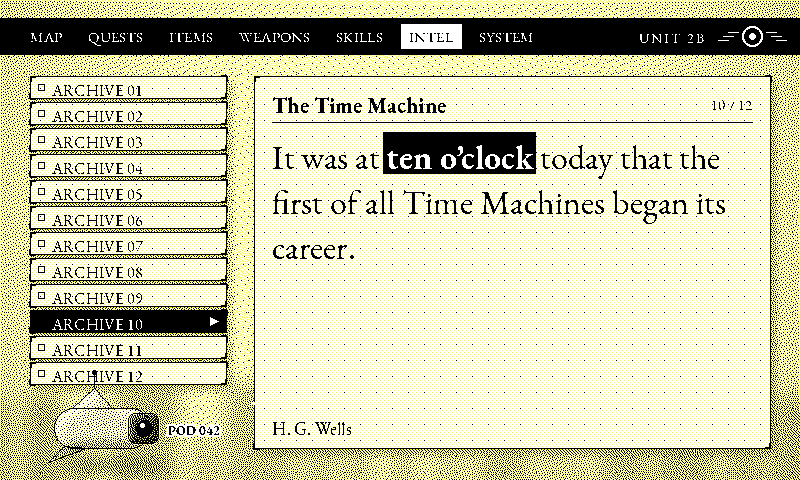
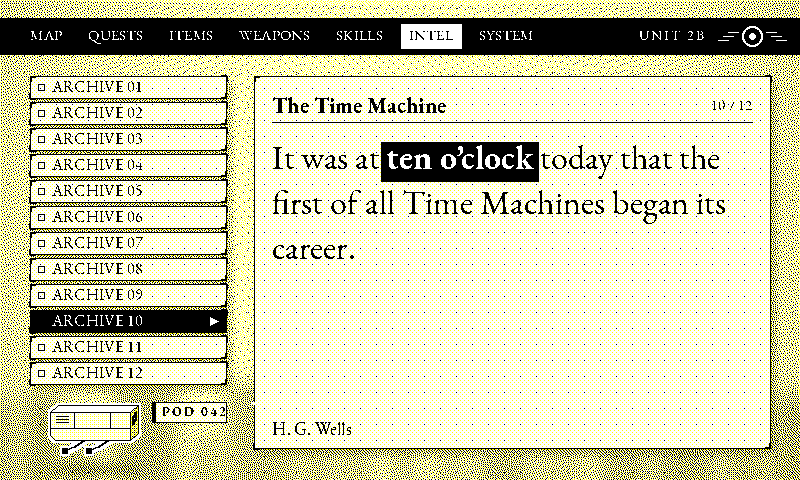
yorha: centre row labels, tighten the phrase bar, redraw Pod 042 crisp (#390)
- Menu rows, tabs, the unit legend and the sleep dialog's options set on a
  baseline that centres the cap height in the cell (_yorha_cap_baseline);
  EB Garamond's accent room above the caps made top-anchored labels sit low.
- The matched-phrase bar is trimmed to the Bold face's ascender top and
  descender foot with an even margin (_yorha_phrase_boxes) instead of the
  line-height box, which ran a third too tall and let descenders touch.
- Pod 042 is now a crisp, Bayer-stippled box-bodied unit with folded arms,
  a white keyline off the sheet and a tagged legend, replacing the dithered
  capsule whose antenna poked into the twelfth menu row.

Claude-Session: https://claude.ai/code/session_01EgsgkaojCS6X3aCn8QJEbo

diff --git a/idle_hours/render_quote/themes/yorha.py b/idle_hours/render_quote/themes/yorha.py
@@ -13,8 +13,17 @@ from PIL import Image, ImageDraw, ImageFilter
 from .._paths import EBGARAMOND_BOLD, EBGARAMOND_REGULAR, META_FONT_BOLD_CANDIDATES, META_FONT_CANDIDATES
 from ..fonts import load_font
 from ..furniture import _clock_hour12, _paint_placed, _place_quote, _row_digest, fallback_title
-from ..palette import _PANEL_INKS, SPECTRA6, SPECTRA6_PALETTE, BAYER_4x4, _dither_calibrated, pixel_access, snap_image_to_palette
-from ..primitives import _shade_silhouette, _shift_no_wrap
+from ..palette import (
+    _PANEL_INKS,
+    SPECTRA6,
+    SPECTRA6_PALETTE,
+    BAYER_4x4,
+    _dither_calibrated,
+    gray_pixel_access,
+    pixel_access,
+    snap_image_to_palette,
+)
+from ..primitives import _shift_no_wrap
 from ..spec import FrameSpec
 from ..text import draw_tracked, fit_text_to_width
 from ._shared import _lumon_hover_boxes
@@ -28,10 +37,10 @@ from ._shared import _lumon_hover_boxes
 # (``yorha``).
 #
 # The sheet (vignette, blurred city silhouettes, diagonal hatch, the panels'
-# soft shadows) and the Pod (``_shade_silhouette`` under the upper-left light) are
-# painted in continuous tone and Floyd–Steinberg dithered to white, yellow and
-# black (``_dither_calibrated``). Panel faces, hairlines, corner ticks, dot
-# grid, tab bar, crest and type go on after the dither.
+# and the Pod's soft shadows) is painted in continuous tone and Floyd–Steinberg
+# dithered to white, yellow and black (``_dither_calibrated``). Panel faces,
+# hairlines, corner ticks, dot grid, tab bar, crest, the Pod and type go on
+# crisp after the dither.
 #
 # The hour is the open entry: ARCHIVE 01..12, the hour's row inverted with a
 # white pointer and the pane's counter reading ``NN / 12``. The quote is EB
@@ -48,7 +57,7 @@ _YORHA_HATCH_PITCH = 9
 _YORHA_HEADER_RECT = (0, 18, 800, 54)
 _YORHA_TABS = ("MAP", "QUESTS", "ITEMS", "WEAPONS", "SKILLS", "INTEL", "SYSTEM")
 _YORHA_MENU_RECT = (30, 76, 226, 388)
-_YORHA_POD_CENTRE = (112, 428)
+_YORHA_POD_CENTRE = (96, 424)
 _YORHA_PANE_RECT = (254, 76, 770, 448)
 _YORHA_QUOTE_RECT = (272, 134, 752, 398)
 _YORHA_BYLINE_Y = 416
@@ -69,6 +78,14 @@ def _yorha_font(size: int, weight: str = "Regular"):
     return load_font([file, *META_FONT_CANDIDATES], size=size)
 
 
+def _yorha_cap_baseline(font, top: float, bottom: float) -> int:
+    """The baseline that centres a caps label's ink between ``top`` and
+    ``bottom``. EB Garamond's ascent carries accent room above the caps, so a
+    top-anchored label sits low in its row."""
+    cap = -font.getbbox("H", anchor="ls")[1]
+    return round((top + bottom + cap) / 2)
+
+
 def _yorha_menu_rows() -> list:
     x0, y0, x1, y1 = _YORHA_MENU_RECT
     step = (y1 - y0) // 12
@@ -79,7 +96,7 @@ def _yorha_scene() -> Image.Image:
     """The sheet, the panels, the shadows and the Pod — everything the hour
     and the quote do not touch — dithered and ruled. Painted once per
     process."""
-    key = (_yorha_paint_ground, _yorha_paint_panels, _yorha_paint_pod_tone, _yorha_paint_rules)
+    key = (_yorha_paint_ground, _yorha_paint_panels, _yorha_paint_pod_tone, _yorha_paint_rules, _yorha_paint_pod)
     cached = _YORHA_SCENE.get("frame")
     if cached is not None and cached[0] == key:
         return cached[1]
@@ -165,39 +182,112 @@ def _yorha_fill_panel(image: Image.Image, rect) -> None:
 
 
 def _yorha_paint_pod_tone(scene: Image.Image) -> None:
-    """Pod 042 in tone: a capsule hull shaded under the upper-left light,
-    its face plate, its fins, and its shadow on the sheet."""
+    """Pod 042's shadow on the sheet, soft and well below it: the unit
+    hovers. The Pod itself is drawn crisp after the dither
+    (``_yorha_paint_pod``)."""
     size = scene.size
     cx, cy = _YORHA_POD_CENTRE
     shadow = Image.new("L", size, 0)
-    ImageDraw.Draw(shadow).ellipse((cx - 52, cy + 30, cx + 56, cy + 44), fill=255)
-    shadow = shadow.filter(ImageFilter.GaussianBlur(5)).point(lambda v: int(v * 0.6))
+    ImageDraw.Draw(shadow).ellipse((cx - 44, cy + 40, cx + 46, cy + 50), fill=255)
+    shadow = shadow.filter(ImageFilter.GaussianBlur(4)).point(lambda v: int(v * 0.65))
     scene.paste(Image.new("RGB", size, _yorha_cream(0.18, 0.55)), (0, 0), shadow)
-    hull = Image.new("L", size, 0)
+    shadow.close()
+
+
+def _yorha_pod_faces() -> dict:
+    """Pod 042 in side view, facing the pane, seen a little from above: the
+    long side, the top, the front end, and the two arms folded under."""
+    cx, cy = _YORHA_POD_CENTRE
+    left, right, top, foot = cx - 46, cx + 34, cy - 12, cy + 16
+    dx, dy = 8, -7                                # the box's depth, receding up and right
+    return {
+        "top": [(left, top), (right, top), (right + dx, top + dy), (left + dx, top + dy)],
+        "side": [(left, top), (right, top), (right, foot), (left + 5, foot), (left, foot - 5)],
+        "front": [(right, top), (right + dx, top + dy), (right + dx, foot + dy), (right, foot)],
+        "arms": [((cx - 12, foot), (cx - 22, foot + 7), (cx - 30, foot + 10)),
+                 ((cx + 12, foot), (cx + 2, foot + 7), (cx - 6, foot + 10))],
+    }
+
+
+def _yorha_stipple_polygon(image: Image.Image, points, black_rank: int, yellow_rank: int) -> None:
+    """Fill a polygon on the 4x4 Bayer tile: ranks under ``black_rank`` black,
+    under ``yellow_rank`` yellow, the rest white."""
+    xs, ys = [p[0] for p in points], [p[1] for p in points]
+    x0, y0, x1, y1 = min(xs), min(ys), max(xs) + 1, max(ys) + 1
+    mask = Image.new("1", (x1 - x0, y1 - y0), 0)
+    ImageDraw.Draw(mask).polygon([(x - x0, y - y0) for x, y in points], fill=1)
+    mp = gray_pixel_access(mask)
+    px = pixel_access(image)
+    width, height = image.size
+    black, yellow, white = SPECTRA6["black"], SPECTRA6["yellow"], SPECTRA6["white"]
+    for y in range(max(0, y0), min(height, y1)):
+        row = BAYER_4x4[y % 4]
+        for x in range(max(0, x0), min(width, x1)):
+            if mp[x - x0, y - y0]:
+                rank = row[x % 4]
+                px[x, y] = black if rank < black_rank else yellow if rank < yellow_rank else white
+    mask.close()
+
+
+def _yorha_paint_pod(image: Image.Image, draw: ImageDraw.ImageDraw) -> None:
+    """Pod 042, crisp: a white keyline off the sheet, the faces stippled by
+    the upper-left light (top white, side cream, front shaded), black edges,
+    panel seams, the front port, the folded arms, and the unit's legend."""
+    black, white = SPECTRA6["black"], SPECTRA6["white"]
+    faces = _yorha_pod_faces()
+    hull = Image.new("L", image.size, 0)
     hd = ImageDraw.Draw(hull)
-    hd.rounded_rectangle((cx - 58, cy - 20, cx + 38, cy + 20), radius=20, fill=255)
-    hd.polygon([(cx - 40, cy - 20), (cx - 18, cy - 40), (cx, cy - 20)], fill=255)          # the dorsal fin
-    hd.polygon([(cx - 48, cy + 18), (cx - 64, cy + 34), (cx - 26, cy + 20)], fill=255)     # the ventral fin
-    body = _shade_silhouette(hull, _yorha_cream(0.12, 0.16), _yorha_cream(0.06, 0.0), _yorha_cream(0.16, 0.58),
-                         offset=6, blur=4)
-    scene.paste(body, (0, 0), hull)
-    face = Image.new("L", size, 0)
-    ImageDraw.Draw(face).rounded_rectangle((cx + 16, cy - 15, cx + 46, cy + 15), radius=7, fill=255)
-    plate = _shade_silhouette(face, _yorha_cream(0.10, 0.70), _yorha_cream(0.08, 0.34), _yorha_cream(0.12, 0.92),
-                          offset=3, blur=2)
-    scene.paste(plate, (0, 0), face)
-    for m in (shadow, hull, body, face, plate):
+    for name in ("top", "side", "front"):
+        hd.polygon(faces[name], fill=255)
+    for arm in faces["arms"]:
+        hd.line(arm, fill=255, width=3)
+        hd.rectangle((arm[-1][0] - 4, arm[-1][1] - 2, arm[-1][0] + 1, arm[-1][1] + 3), fill=255)
+    halo = hull.filter(ImageFilter.MaxFilter(5))
+    image.paste(Image.new("RGB", image.size, white), (0, 0), halo)
+    for m in (hull, halo):
         m.close()
+    # The arms first: they hang behind the hull's foot.
+    for arm in faces["arms"]:
+        draw.line(arm, fill=black, width=2, joint="curve")
+        hx, hy = arm[-1]
+        draw.rectangle((hx - 4, hy - 2, hx + 1, hy + 3), fill=black)
+    _yorha_stipple_polygon(image, faces["top"], 0, 0)
+    _yorha_stipple_polygon(image, faces["side"], 0, 3)
+    _yorha_stipple_polygon(image, faces["front"], 3, 10)
+    for name in ("top", "side", "front"):
+        draw.polygon(faces[name], outline=black)
+    # Seams: the side's split line and two panel joints, a vent on the rear.
+    (left, top), (right, _t), *_ = faces["side"]
+    foot = faces["side"][2][1]
+    mid = (top + foot) // 2 + 2
+    draw.line((left + 1, mid, right - 1, mid), fill=black, width=1)
+    for x in (left + 24, right - 20):
+        draw.line((x, top + 1, x, mid), fill=black, width=1)
+    for i in range(3):
+        draw.line((left + 6, top + 4 + i * 3, left + 18, top + 4 + i * 3), fill=black, width=1)
+    # The port in the front end, a dark square with a glint.
+    (fx0, fy0), (fx1, fy1) = faces["front"][0], faces["front"][1]
+    draw.polygon([(fx0 + 2, fy0 + 4), (fx1 - 2, fy1 + 6), (fx1 - 2, fy1 + 15), (fx0 + 2, fy0 + 13)], fill=black)
+    draw.point((fx0 + 4, fy0 + 6), fill=white)
+    # The legend on its own tag: a crisp panel face with a black head band.
+    label = _yorha_font(13, "Bold")
+    tag_x0, tag_x1 = faces["front"][1][0] + 14, _YORHA_MENU_RECT[2]
+    tag_y0, tag_y1 = top - 10, top + 10
+    _yorha_fill_panel(image, (tag_x0, tag_y0, tag_x1, tag_y1))
+    draw.rectangle((tag_x0, tag_y0, tag_x1, tag_y1), outline=black, width=1)
+    draw.rectangle((tag_x0, tag_y0, tag_x0 + 3, tag_y1), fill=black)
+    baseline = _yorha_cap_baseline(label, tag_y0, tag_y1)
+    draw_tracked(draw, (tag_x0 + 10, baseline - label.getmetrics()[0]), "POD 042", label, black, tracking=2)
 
 
 def _yorha_paint_rules(image: Image.Image) -> None:
-    """After the dither: the dot grid, the pane's and rows' hairlines with
-    their corner ticks, the tab bar with the crest, and the Pod's lens,
-    antenna and legend."""
+    """After the dither: the panel faces, the dot grid, the pane's and rows'
+    hairlines with their corner ticks, the tab bar with the crest, and the
+    Pod."""
     for rect in _yorha_panel_rects():
         _yorha_fill_panel(image, rect)
     draw = ImageDraw.Draw(image)
-    black, white = SPECTRA6["black"], SPECTRA6["white"]
+    black = SPECTRA6["black"]
     width, height = image.size
     px = pixel_access(image)
     p = _YORHA_DOT_PITCH
@@ -212,18 +302,7 @@ def _yorha_paint_rules(image: Image.Image) -> None:
             draw.line((x, y, x + 5 * dx, y), fill=black, width=2)
             draw.line((x, y, x, y + 5 * dy), fill=black, width=2)
     _yorha_paint_tab_bar(draw, "INTEL")
-    # The Pod's silhouette, lens, antenna and legend.
-    pxc, pyc = _YORHA_POD_CENTRE
-    draw.rounded_rectangle((pxc - 58, pyc - 20, pxc + 38, pyc + 20), radius=20, outline=black, width=1)
-    draw.polygon([(pxc - 40, pyc - 20), (pxc - 18, pyc - 40), (pxc, pyc - 20)], outline=black)
-    draw.polygon([(pxc - 48, pyc + 18), (pxc - 64, pyc + 34), (pxc - 26, pyc + 20)], outline=black)
-    draw.rounded_rectangle((pxc + 16, pyc - 15, pxc + 46, pyc + 15), radius=7, outline=black, width=1)
-    draw.ellipse((pxc + 24, pyc - 8, pxc + 40, pyc + 8), fill=black)
-    draw.ellipse((pxc + 28, pyc - 5, pxc + 32, pyc - 1), fill=white)
-    draw.line((pxc - 18, pyc - 40, pxc - 18, pyc - 54), fill=black, width=1)
-    draw.ellipse((pxc - 20, pyc - 58, pxc - 16, pyc - 54), fill=black)
-    draw.text((pxc + 56, pyc - 7), "POD 042", font=_yorha_font(13, "Bold"), fill=black, stroke_width=2,
-              stroke_fill=white)
+    _yorha_paint_pod(image, draw)
 
 
 def _yorha_paint_tab_bar(draw: ImageDraw.ImageDraw, open_tab: str) -> None:
@@ -231,14 +310,14 @@ def _yorha_paint_tab_bar(draw: ImageDraw.ImageDraw, open_tab: str) -> None:
     black, white = SPECTRA6["black"], SPECTRA6["white"]
     draw.rectangle(_YORHA_HEADER_RECT, fill=black)
     font = _yorha_font(15, "Regular")
+    top, bottom = _YORHA_HEADER_RECT[1] + 6, _YORHA_HEADER_RECT[3] - 6
+    baseline = _yorha_cap_baseline(font, top, bottom)
     tab_x: float = 30
     for tab in _YORHA_TABS:
         tw = draw.textlength(tab, font=font)
         if tab == open_tab:
-            draw.rectangle((tab_x - 8, _YORHA_HEADER_RECT[1] + 6, tab_x + tw + 8, _YORHA_HEADER_RECT[3] - 6), fill=white)
-            draw.text((tab_x, _YORHA_HEADER_RECT[1] + 8), tab, font=font, fill=black)
-        else:
-            draw.text((tab_x, _YORHA_HEADER_RECT[1] + 8), tab, font=font, fill=white)
+            draw.rectangle((tab_x - 8, top, tab_x + tw + 8, bottom), fill=white)
+        draw.text((tab_x, baseline), tab, font=font, fill=black if tab == open_tab else white, anchor="ls")
         tab_x += tw + 26
     # The crest: a ring with its wing bars, and the unit beside it.
     cx, cy = 752, (_YORHA_HEADER_RECT[1] + _YORHA_HEADER_RECT[3]) // 2
@@ -248,7 +327,8 @@ def _yorha_paint_tab_bar(draw: ImageDraw.ImageDraw, open_tab: str) -> None:
         draw.line((cx - 14 - i * 5, cy - 4 + i * 4, cx - 24 - i * 5, cy - 4 + i * 4), fill=white, width=1)
         draw.line((cx + 14 + i * 5, cy - 4 + i * 4, cx + 24 + i * 5, cy - 4 + i * 4), fill=white, width=1)
     small = _yorha_font(14, "Regular")
-    draw_tracked(draw, (cx - 48, cy - 8), "UNIT 2B", small, white, tracking=2, anchor_right=True)
+    unit_top = _yorha_cap_baseline(small, cy - 10, cy + 10) - small.getmetrics()[0]
+    draw_tracked(draw, (cx - 48, unit_top), "UNIT 2B", small, white, tracking=2, anchor_right=True)
 
 
 def _yorha_paint_menu(draw: ImageDraw.ImageDraw, hour: int) -> None:
@@ -262,7 +342,8 @@ def _yorha_paint_menu(draw: ImageDraw.ImageDraw, hour: int) -> None:
             draw.polygon([(x1 - 16, y0 + 7), (x1 - 8, (y0 + y1) / 2), (x1 - 16, y1 - 7)], fill=white)
         else:
             draw.rectangle((x0 + 8, (y0 + y1) / 2 - 3, x0 + 14, (y0 + y1) / 2 + 3), outline=black, width=1)
-        draw.text((x0 + 22, y0 + 3), f"ARCHIVE {i + 1:02d}", font=font, fill=white if active else black)
+        draw.text((x0 + 22, _yorha_cap_baseline(font, y0, y1)), f"ARCHIVE {i + 1:02d}", font=font,
+                  fill=white if active else black, anchor="ls")
 
 
 def _yorha_paint_pane(draw: ImageDraw.ImageDraw, hour: int, quote_row: dict) -> None:
@@ -283,11 +364,29 @@ def _yorha_layout(draw: ImageDraw.ImageDraw, quote_row: dict):
                         font_max=34, font_min=18, line_height_mult=1.34)
 
 
+def _yorha_phrase_boxes(draw: ImageDraw.ImageDraw, placed) -> list:
+    """The matched phrase's boxes: ``_lumon_hover_boxes``' runs, trimmed to
+    the phrase face's ascender top and descender foot with an even margin.
+    The line-height box ``lumon`` uses carries EB Garamond's accent room above
+    the ascenders, which left the bar a third too tall and top-heavy."""
+    bold = next((font for *_, font, is_bold, _w, _lh in placed if is_bold), None)
+    if bold is None:
+        return []
+    _l, ink_top, _r, ink_foot = bold.getbbox("hp", anchor="la")
+    size = getattr(bold, "size", 20)
+    pad_y, pad_x = max(2, round(size * 0.09)), max(3, round(size * 0.14))
+    boxes = []
+    for x0, y, x1, _y1 in _lumon_hover_boxes(draw, placed):
+        line_top = y + 2                          # the run's line top, before lumon's own margin
+        boxes.append((x0 + 3 - pad_x, line_top + ink_top - pad_y, x1 - 2 + pad_x, line_top + ink_foot + pad_y))
+    return boxes
+
+
 def _yorha_paint_quote(draw: ImageDraw.ImageDraw, placed) -> None:
     """Black EB Garamond; the matched phrase white, knocked out of a black
     box per run — the selected item."""
     black, white = SPECTRA6["black"], SPECTRA6["white"]
-    for box in _lumon_hover_boxes(draw, placed):
+    for box in _yorha_phrase_boxes(draw, placed):
         draw.rectangle(box, fill=black)
     _paint_placed(draw, placed, black, white)
 
@@ -356,7 +455,8 @@ def _yorha_paint_sleep_menu(draw: ImageDraw.ImageDraw) -> None:
             draw.polygon([(x1 - 16, y0 + 7), (x1 - 8, (y0 + y1) / 2), (x1 - 16, y1 - 7)], fill=white)
         else:
             draw.rectangle((x0 + 8, (y0 + y1) / 2 - 3, x0 + 14, (y0 + y1) / 2 + 3), outline=black, width=1)
-        draw.text((x0 + 22, y0 + 3), _YORHA_SLEEP_MENU[i], font=font, fill=white if active else black)
+        draw.text((x0 + 22, _yorha_cap_baseline(font, y0, y1)), _YORHA_SLEEP_MENU[i], font=font,
+                  fill=white if active else black, anchor="ls")
 
 
 def _yorha_paint_sleep_head(draw: ImageDraw.ImageDraw) -> None:
@@ -407,7 +507,8 @@ def _yorha_paint_sleep_dialog(image: Image.Image, draw: ImageDraw.ImageDraw) -> 
         else:
             draw.rectangle((rx0, ry0, rx1, ry1), outline=black, width=1)
             draw.rectangle((rx0 + 13, cy - 4, rx0 + 21, cy + 4), outline=black, width=1)
-        draw.text((rx0 + 40, cy), label, font=option, fill=white if active else black, anchor="lm")
+        draw.text((rx0 + 40, _yorha_cap_baseline(option, ry0, ry1)), label, font=option,
+                  fill=white if active else black, anchor="ls")
 
 
 def _yorha_paint_sleep_pod_line(draw: ImageDraw.ImageDraw) -> None:

diff --git a/tests/test_render_quote_themes.py b/tests/test_render_quote_themes.py
@@ -7088,14 +7088,27 @@ class TestYorhaFrame(_CustomFrameCase):
         above = ink_counts(scene.crop((x0 + 40, y0 - 8, x1 - 40, y0 - 2))).get(rq.SPECTRA6["black"], 0)
         assert below > above * 1.5
 
-    def test_pod_is_modelled_with_a_lens(self):
+    def test_pod_is_lit_from_the_upper_left(self):
         image = self._render()
+        faces = rq._yorha_pod_faces()
+
+        def black_share(name):
+            xs, ys = [p[0] for p in faces[name]], [p[1] for p in faces[name]]
+            # The face's interior, clear of its outline.
+            counts = ink_counts(image.crop((min(xs) + 3, min(ys) + 2, max(xs) - 2, max(ys) - 1)))
+            return counts.get(rq.SPECTRA6["black"], 0) / sum(counts.values())
+
+        top = image.crop((min(p[0] for p in faces["top"]) + 12, faces["top"][2][1] + 2,
+                          faces["top"][1][0] - 2, faces["top"][0][1] - 1))
+        assert set(ink_counts(top)) == {rq.SPECTRA6["white"]}               # the lit top
+        assert black_share("front") > 0.15                                   # the shaded end, and its port
+        hands = [arm[-1] for arm in faces["arms"]]
+        for hx, hy in hands:
+            assert ink_counts(image.crop((hx - 3, hy - 1, hx, hy + 2))) == {rq.SPECTRA6["black"]: 9}
+        # The white keyline lifts it off the stippled sheet, and nothing reaches the menu.
         cx, cy = rq._YORHA_POD_CENTRE
-        pod = ink_counts(image.crop((cx - 60, cy - 42, cx + 48, cy + 22)))
-        assert pod.get(rq.SPECTRA6["black"], 0) > 900
-        assert pod.get(rq.SPECTRA6["white"], 0) > 1500
-        lens = ink_counts(image.crop((cx + 24, cy - 8, cx + 41, cy + 9)))
-        assert lens.get(rq.SPECTRA6["black"], 0) > 120 and lens.get(rq.SPECTRA6["white"], 0) > 4
+        assert min(p[1] for p in faces["top"]) - 3 > rq._YORHA_MENU_RECT[3]
+        assert image.getpixel((faces["side"][0][0] - 2, cy)) == rq.SPECTRA6["white"]
 
     def test_hour_is_the_inverted_row(self):
         rows = rq._yorha_menu_rows()
@@ -7108,10 +7121,35 @@ class TestYorhaFrame(_CustomFrameCase):
                 black = counts.get(rq.SPECTRA6["black"], 0)
                 assert (black > area * 0.6) == (i + 1 == hour), (hour, i)
 
+    def test_menu_labels_sit_centred_in_their_rows(self):
+        """EB Garamond's ascent carries accent room over the caps, so a
+        top-anchored label sat low; the cap height is centred instead."""
+        image = self._render(time_str="05:00")
+        for i, (x0, y0, _x1, y1) in enumerate(rq._yorha_menu_rows()):
+            ink = rq.SPECTRA6["white" if i == 4 else "black"]
+            rows = [y for y in range(y0 + 2, y1 - 1)
+                    if any(image.getpixel((x, y)) == ink for x in range(x0 + 24, x0 + 60))]
+            above, below = rows[0] - y0, y1 - rows[-1]
+            assert abs(above - below) <= 2, (i, above, below)
+
+    def test_phrase_box_hugs_the_ink(self):
+        """The bar spans the bold face's ascender top to its descender foot
+        with an even margin, not the whole line height."""
+        draw = ImageDraw.Draw(Image.new("RGB", (800, 480)))
+        placed = rq._yorha_layout(draw, make_row(**self.ROW))
+        bold = next(item[3] for item in placed if item[4])
+        (bx0, by0, bx1, by1), = rq._yorha_phrase_boxes(draw, placed)
+        y = next(item[1] for item in placed if item[4])
+        _l, ink_top, _r, ink_foot = bold.getbbox("hp", anchor="la")
+        assert 0 < (y + ink_top) - by0 <= bold.size * 0.15
+        assert 0 < by1 - (y + ink_foot) <= bold.size * 0.15
+        assert abs(((y + ink_top) - by0) - (by1 - (y + ink_foot))) <= 1
+        assert (by1 - by0) < bold.size * 1.3
+
     def test_phrase_is_knocked_out_of_a_black_box(self):
         image = self._render()
         draw = ImageDraw.Draw(Image.new("RGB", (800, 480)))
-        boxes = rq._lumon_hover_boxes(draw, rq._yorha_layout(draw, make_row(**self.ROW)))
+        boxes = rq._yorha_phrase_boxes(draw, rq._yorha_layout(draw, make_row(**self.ROW)))
         assert len(boxes) == 1
         box = ink_counts(image.crop(boxes[0]))
         area = (boxes[0][2] - boxes[0][0]) * (boxes[0][3] - boxes[0][1])

diff --git a/docs/themes.md b/docs/themes.md
@@ -1248,11 +1248,13 @@ Imports `pick_quote` in-process (`pick_quote_module.select_quote`) and lays out 
 
     **The object.** Automata's pause screen lays a parchment-cream sheet over the blurred world, hatched with fine diagonals and dotted on a grid, with a dark tab bar across the top, a left-hand menu of boxed rows with corner ticks and the selected row inverted, a content pane with a rule under its title, and Pod 042 — the android's floating support unit — hovering at the edge of it all.
 
-    **The sheet is painted in continuous tone and dithered to three inks** (`_dither_calibrated`, white, yellow and black): the cream with a vignette toward the corners, the blurred silhouettes of the ruined city along the foot, the hatch as a faint darkening, the pane's and the rows' soft shadows, and the Pod modelled in grey under the upper-left light (`_shade_silhouette`) with its face plate, dorsal and ventral fins.
+    **The sheet is painted in continuous tone and dithered to three inks** (`_dither_calibrated`, white, yellow and black): the cream with a vignette toward the corners, the blurred silhouettes of the ruined city along the foot, the hatch as a faint darkening, the pane's, the rows' and the hovering Pod's soft shadows.
 
-    **The panels are laid crisp after the dither** as white with a yellow eighth on the 4×4 Bayer tile (`_yorha_fill_panel`) — error diffusion worms at a light density, and a page should not. Then come the hairlines, corner ticks, dot grid, the tab bar with INTEL open under the YoRHa crest, and the Pod's silhouette, lens and antenna.
+    **The panels are laid crisp after the dither** as white with a yellow eighth on the 4×4 Bayer tile (`_yorha_fill_panel`) — error diffusion worms at a light density, and a page should not. Then come the hairlines, corner ticks, dot grid, and the tab bar with INTEL open under the YoRHa crest. Every label in a row, a tab or the dialog is set on a baseline that centres its cap height in the cell (`_yorha_cap_baseline`): EB Garamond's ascent carries accent room above the caps, so a top-anchored label sat visibly low.
 
-    **The hour is the open entry:** ARCHIVE 01–12 are the hours, the hour's row is the inverted one with a white pointer, and the pane's counter reads the same number over twelve. The quote is in EB Garamond with the matched phrase Bold knocked out of a black box per line (`_lumon_hover_boxes` supplies the runs), the book's title heads the pane, the author closes it, and one glitch sliver at the pane's foot — the game's own tic — is seeded from the quote. Composed at 800×480 and NEAREST-downsampled otherwise.
+    **Pod 042 is drawn crisp too** (`_yorha_paint_pod`): the game's box-bodied unit in side view, facing the pane and seen a little from above, with its arms folded under. A white keyline lifts it off the stippled sheet; the faces are Bayer-stippled by the upper-left light (`_yorha_stipple_polygon`: top white, side a cream 3/16 yellow, the front end shaded with black), with black edges, panel seams, a rear vent, a dark port in the front end, and its legend on a small tag. Only its shadow, well below the hull so it reads as hovering, goes through the dither. *Tried and rejected:* a capsule hull modelled in continuous tone with fins and an antenna — error diffusion left its surfaces mottled, the outline didn't register with the dithered tone, and the antenna poked into the twelfth menu row.
+
+    **The hour is the open entry:** ARCHIVE 01–12 are the hours, the hour's row is the inverted one with a white pointer, and the pane's counter reads the same number over twelve. The quote is in EB Garamond with the matched phrase Bold knocked out of a black box per line (`_yorha_phrase_boxes`: `_lumon_hover_boxes` supplies the runs, and the box is trimmed to the Bold face's ascender top and descender foot with an even margin — the line-height box ran a third too tall, all of it above the ascenders, while descenders touched its foot), the book's title heads the pane, the author closes it, and one glitch sliver at the pane's foot — the game's own tic — is seeded from the quote. Composed at 800×480 and NEAREST-downsampled otherwise.
 
     **Its own sleep frame** (`render_yorha_sleep`, the theme's `spec.sleep`): the archive asks to sleep. It is the quote frame's cached sheet, panels, Pod and crest (`_yorha_scene`), with the tab bar turned from INTEL to SYSTEM (`_yorha_paint_tab_bar`, which the quote frame's rules pass also calls). The twelve menu rows become the System menu (`_YORHA_SLEEP_MENU`), with SLEEP MODE inverted under the white pointer. The pane's head reads System › Sleep Mode with STANDBY at the right, and the pane holds the game's confirmation dialog: a crisp panel face with a hard Bayer-stippled black shadow, black bands at its top and foot, corner ticks, "Enter sleep mode?" in Regular 30 px, then **Yes** selected (knocked out white of a black bar behind a white ▶) over an outlined **No**. Under the dialog, Pod 042 makes a proposal in the game's register: "Proposal: Unit 2B enter sleep mode. The archive will be kept until morning." The quote frame's glitch sliver is left out on purpose, so the unit reads as resting, not damaged. The inks are the theme's white, yellow and black. Nothing on it tells the time (`time_str` is `del`-asserted), and like the quote frame it is composed at 800×480 and NEAREST-downsampled.
   - `hitchhiker` (black screen / yellow masthead and badge / hand-animated white Michroma entry with coloured line markers / yellow matched phrase / the Babel fish under a raster / the galaxy chart — **the BBC's *Hitchhiker's Guide to the Galaxy* (1981)**, the Guide's entries). A custom-render frame (`render_hitchhiker_frame`).
